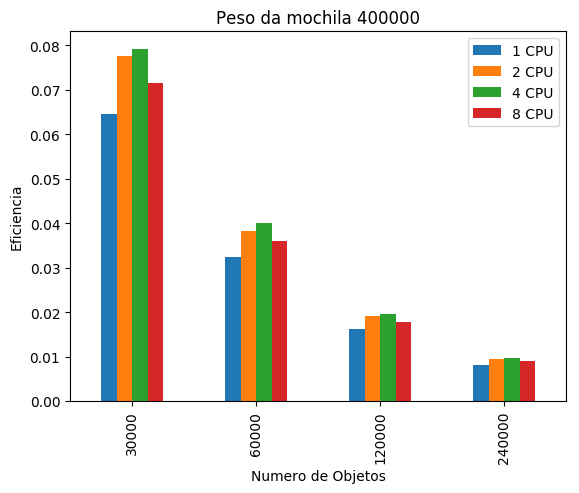
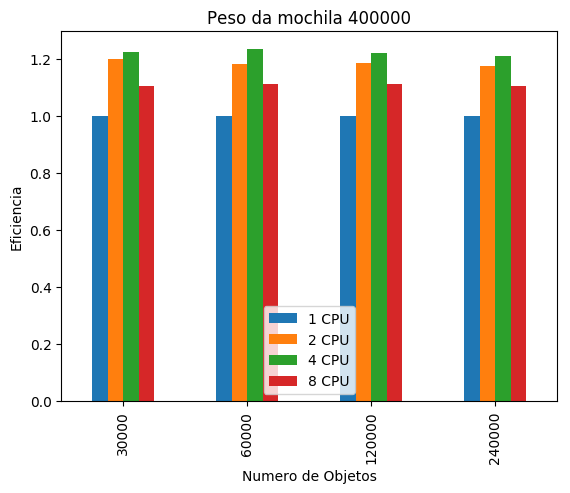
err fixed error

diff --git a/getMetrics.py b/getMetrics.py
@@ -58,9 +58,10 @@ def main():
 		seq = 0.0
 		for i  in range(len(threads)):
 			if threads[i] == 1:
-				seq = threads[i]
+				seq = media[i]
 			speedUp[i] = seq/media[i]*threads[i]
 			efficiency[i] = speedUp[i]/threads[i]
+			print("i: {}\tseq: {}\tthreads[i]: {}\tmedia[i]: {}\t spUp[i]: {}\teff[i]: {}".format(i,seq,threads[i],media[i],speedUp[i],efficiency[i]))
 		
 		df.insert(8,"spUp",speedUp)
 		df.insert(9,"eff",efficiency)
